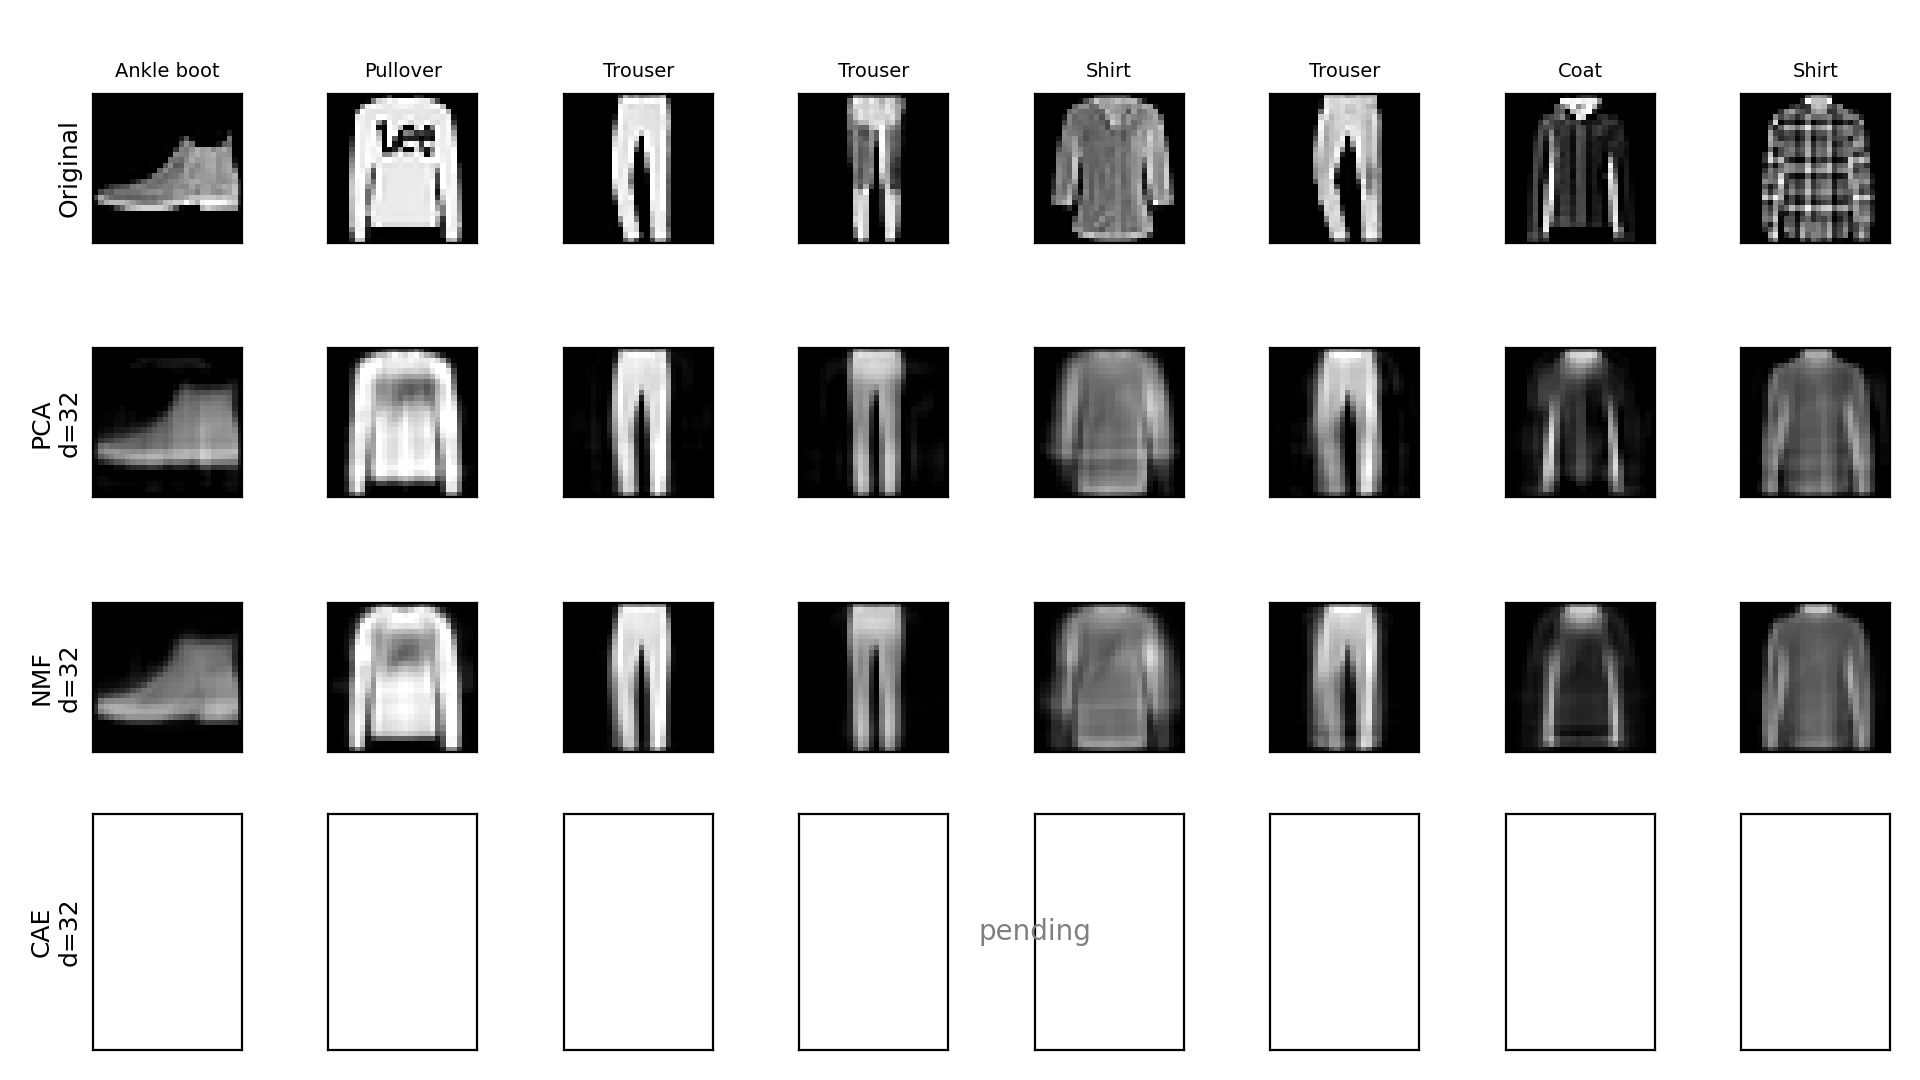
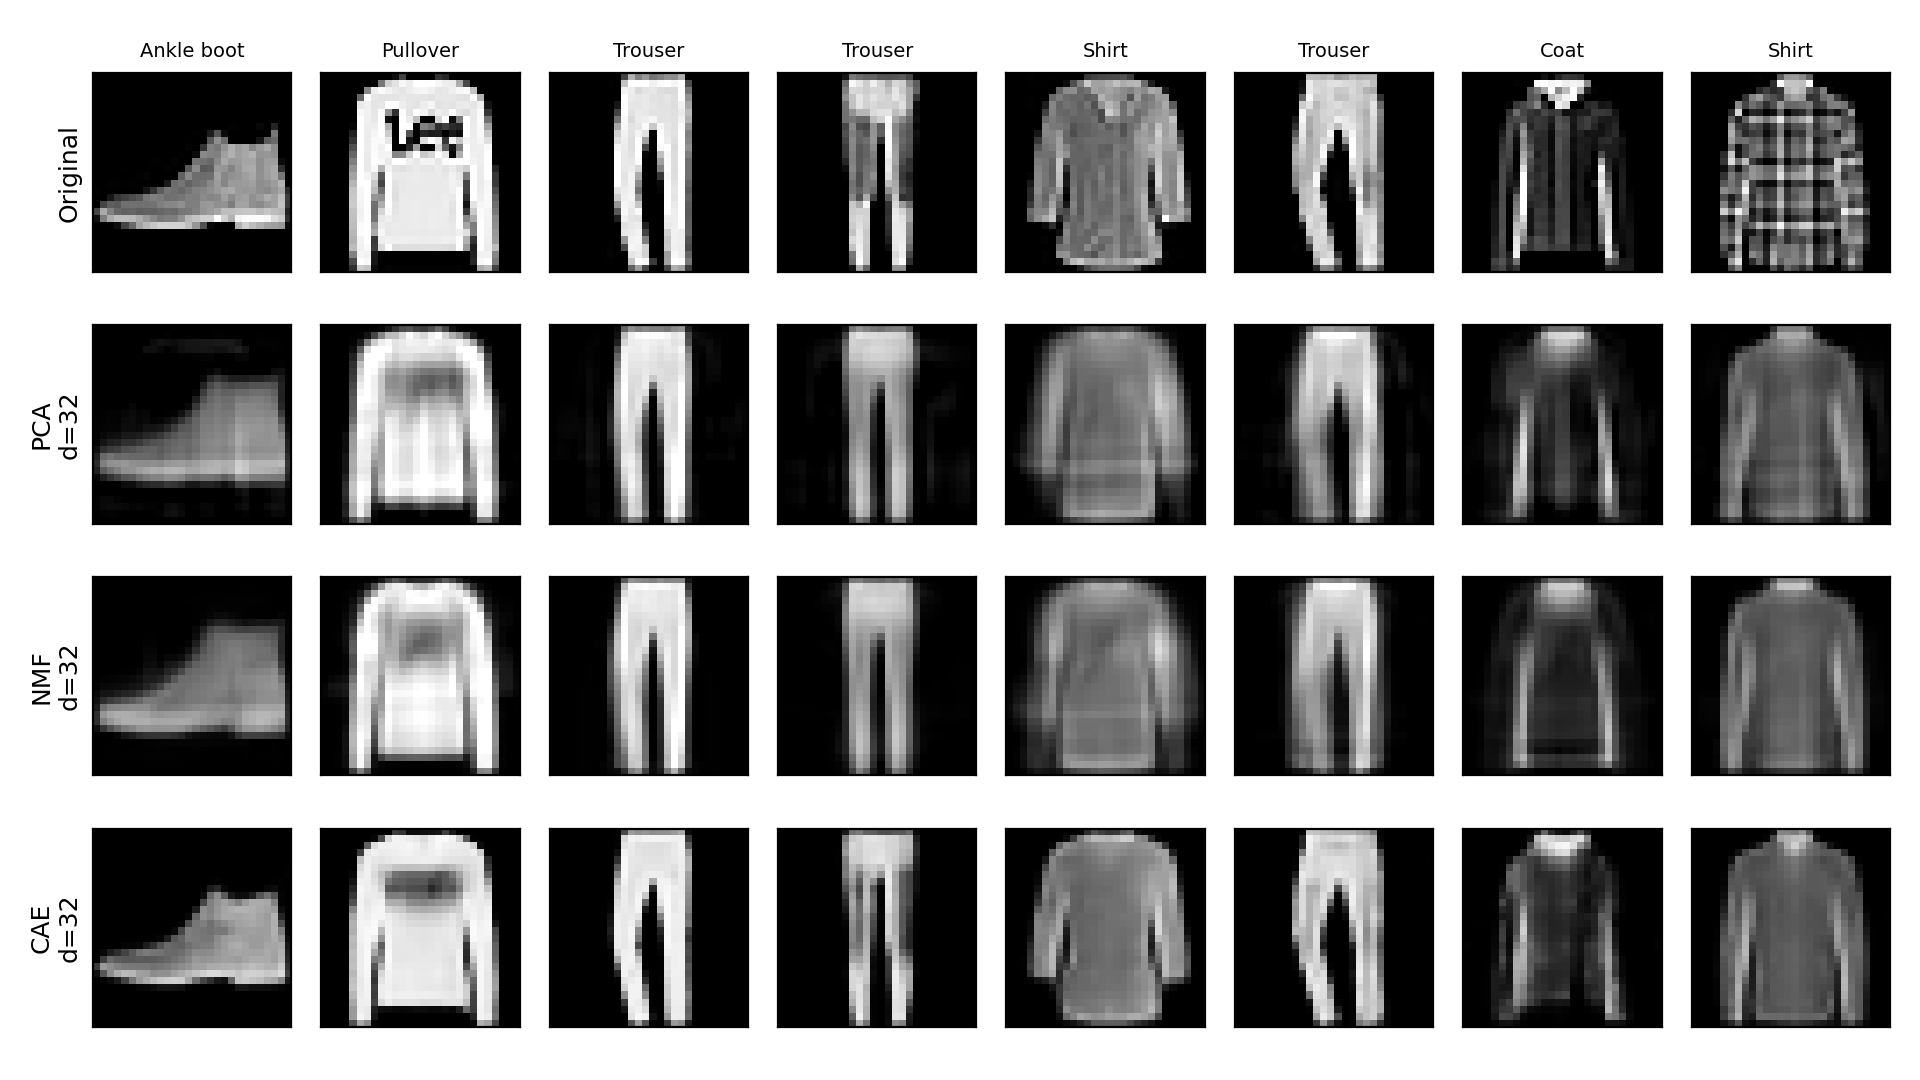
Add CAE to figures and tSNE/reconstruction grid

diff --git a/scripts/make_figures.py b/scripts/make_figures.py
@@ -3,8 +3,9 @@
 Usage (from the repo root):
     python scripts/make_figures.py
 
-Merges every results/results_<method>.csv (the files evaluate() writes),
-so new NMF / CAE files appear automatically. results.csv is ignored.
+Merges every results/results_<method>.csv (the files evaluate() writes).
+Methods that only exist in results/results.csv (e.g. CAE merged there) are
+picked up from it too; nothing is double-counted.
 - Multiple seeds per (method, d) are averaged, with a ±1 std band.
 - The "Raw" row (d = 784) is drawn as a dashed reference line, not a curve.
 Writes PNGs into figures/.
@@ -32,10 +33,23 @@ METRICS = {
 
 def load():
     files = sorted(RESULTS_DIR.glob("results_*.csv"))
-    if not files:
-        raise SystemExit(f"No results_*.csv files in {RESULTS_DIR}")
-    print("Reading:", ", ".join(f.name for f in files))
-    df = pd.concat([pd.read_csv(f) for f in files], ignore_index=True)
+    frames = [pd.read_csv(f) for f in files]
+    names = [f.name for f in files]
+    have = set(pd.concat(frames)["method"].str.upper()) if frames else set()
+    # results.csv is a merged copy. Only take methods from it that have no
+    # results_<method>.csv of their own (e.g. CAE merged straight into results.csv).
+    merged = RESULTS_DIR / "results.csv"
+    if merged.exists():
+        m = pd.read_csv(merged)
+        extra = m[~m["method"].str.upper().isin(have)]
+        if not extra.empty:
+            frames.append(extra)
+            names.append(f"results.csv (only {sorted(extra['method'].unique())})")
+    if not frames:
+        raise SystemExit(f"No results files in {RESULTS_DIR}")
+    print("Reading:", ", ".join(names))
+    df = pd.concat(frames, ignore_index=True)
+    df = df.drop_duplicates(subset=["method", "d", "seed"], keep="first")
     df["method"] = df["method"].replace({"RAW": "Raw", "raw": "Raw"})
     ref = df[df["method"] == REF_METHOD]
     runs = df[df["method"] != REF_METHOD]
